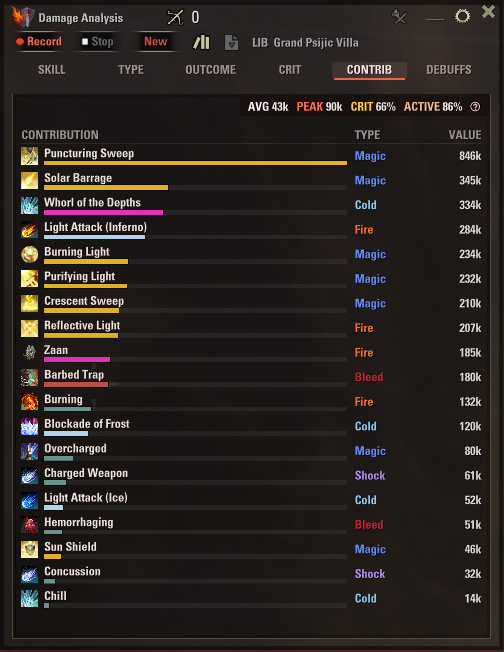
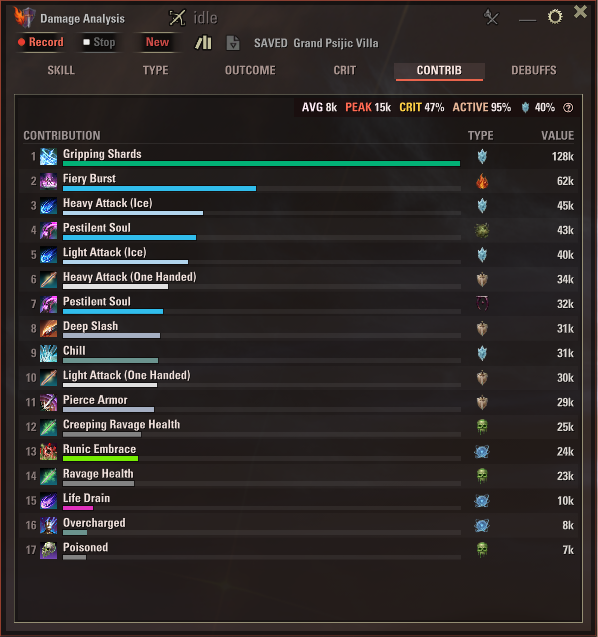
Sit the crit readout next to the damage readout and add the DEBUFFS and CONTRIB screenshots

diff --git a/CHANGELOG.md b/CHANGELOG.md
@@ -8,7 +8,7 @@ All notable changes to Vermilion are documented here. This project follows
 ### Added
 - CONTRIB view: the Type column shows the damage-type icon instead of a word, and the shield rows wear the shield icon. Hover a row and the card carries the same icon with the type's name. Every second row wears a faint band, and each row shows its rank.
 - The summary chip ends with the icon of the damage type that carried the recording and its share; the damage report names it.
-- The header reads "idle" in grey while nothing is recording, and shows the number again as soon as a recording starts.
+- The header reads "idle" in grey while nothing is recording, and shows the number again as soon as a recording starts. The crit readout now sits right after the damage readout instead of by the gear.
 
 ### Fixed
 - The damage report of a library session showed zero total and zero hits; it now reads the totals saved with the session.

diff --git a/README.md b/README.md
@@ -43,6 +43,8 @@ Six views share one window. Click a tab, or use the Next and Previous view keybi
 
 **DEBUFFS** shows the uptime of the debuffs you put on enemies: one lane per debuff, brighter when more targets carry it at once, folded into an "always on" strip when a debuff stayed up the whole fight. Lanes are coloured by skill line where the debuff has one, and by family otherwise: warm for Major and Minor offense debuffs like Breach and Brittle, blue for defense ones like Maim, mint for sustain, ember for status effects like Burning and Poisoned, khaki for taunts and control. Your own skill effects are not listed here; their damage is in SKILL and CONTRIB.
 
+![DEBUFFS view](docs/assets/debuffs-view-1.0.png)
+
 ## The report
 
 After Stop, the chip in the top corner sums up the recording: average, peak, crit rate, active time and shield share. Hover it for the full report, click it to copy the text into chat.
